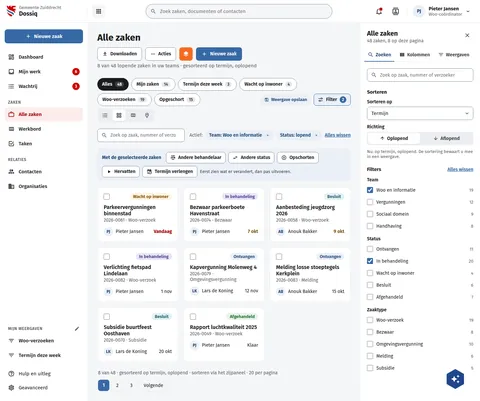
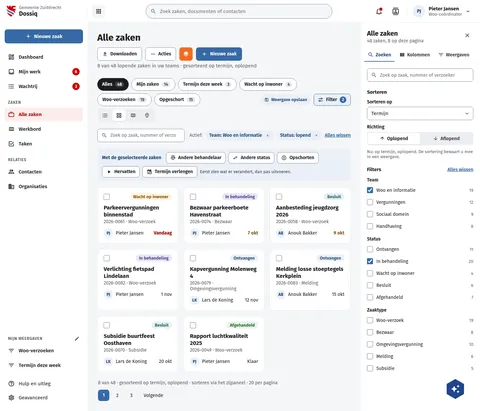
fix(screens): DqZakenSorteren card titles at the boards' 17px bold
The case cards on DqZakenSorteren set their titles at 16px/600, while the
card boards draw them at 17px/700 (43 card grids, DqAanMijToegewezen among
them; 16/600 on 2). The board follows the majority; the board grows 29px
(heights.json). screens.json is left as it was (a --only rebuild rewrites
it wholesale).

Assisted-by: ClaudeCode:claude-opus-5-5

diff --git a/preview/screens/boards/DqZakenSorteren.html b/preview/screens/boards/DqZakenSorteren.html
@@ -200,7 +200,7 @@ a{color:var(--sc-primary, #3669a5)}a:hover{color:var(--sc-primary-deep, #234a78)
                 <span style="display: inline-block; padding: 3px 10px; border-radius: 12px; font-size: 13px; font-weight: 600; background: #fff4de; color: #7a4f00">Wacht op inwoner</span>
               </div>
               <div style="display: flex; flex-direction: column; gap: 2px; min-width: 0">
-                <a href="DqZaak.html" style="font-size: 16px; font-weight: 600; color: var(--sc-work-ink, #1b1c1d); text-decoration: none">Parkeervergunningen binnenstad</a>
+                <a href="DqZaak.html" style="font-size: 17px; font-weight: 700; color: var(--sc-work-ink, #1b1c1d); text-decoration: none">Parkeervergunningen binnenstad</a>
                 <span style="font-size: 14px; color: var(--sc-work-muted, #5e6168)">2026-0061 · Woo-verzoek</span>
               </div>
               <div style="display: flex; justify-content: space-between; align-items: center; gap: 8px; font-size: 14px">
@@ -215,7 +215,7 @@ a{color:var(--sc-primary, #3669a5)}a:hover{color:var(--sc-primary-deep, #234a78)
                 <span style="display: inline-block; padding: 3px 10px; border-radius: 12px; font-size: 13px; font-weight: 600; background: #e8e6f6; color: #4a3f8f">In behandeling</span>
               </div>
               <div style="display: flex; flex-direction: column; gap: 2px; min-width: 0">
-                <a href="DqZaak.html" style="font-size: 16px; font-weight: 600; color: var(--sc-work-ink, #1b1c1d); text-decoration: none">Bezwaar parkeerboete Havenstraat</a>
+                <a href="DqZaak.html" style="font-size: 17px; font-weight: 700; color: var(--sc-work-ink, #1b1c1d); text-decoration: none">Bezwaar parkeerboete Havenstraat</a>
                 <span style="font-size: 14px; color: var(--sc-work-muted, #5e6168)">2026-0074 · Bezwaar</span>
               </div>
               <div style="display: flex; justify-content: space-between; align-items: center; gap: 8px; font-size: 14px">
@@ -230,7 +230,7 @@ a{color:var(--sc-primary, #3669a5)}a:hover{color:var(--sc-primary-deep, #234a78)
                 <span style="display: inline-block; padding: 3px 10px; border-radius: 12px; font-size: 13px; font-weight: 600; background: #e3f1f3; color: #1d5e66">Besluit</span>
               </div>
               <div style="display: flex; flex-direction: column; gap: 2px; min-width: 0">
-                <a href="DqZaak.html" style="font-size: 16px; font-weight: 600; color: var(--sc-work-ink, #1b1c1d); text-decoration: none">Aanbesteding jeugdzorg 2026</a>
+                <a href="DqZaak.html" style="font-size: 17px; font-weight: 700; color: var(--sc-work-ink, #1b1c1d); text-decoration: none">Aanbesteding jeugdzorg 2026</a>
                 <span style="font-size: 14px; color: var(--sc-work-muted, #5e6168)">2026-0058 · Woo-verzoek</span>
               </div>
               <div style="display: flex; justify-content: space-between; align-items: center; gap: 8px; font-size: 14px">
@@ -245,7 +245,7 @@ a{color:var(--sc-primary, #3669a5)}a:hover{color:var(--sc-primary-deep, #234a78)
                 <span style="display: inline-block; padding: 3px 10px; border-radius: 12px; font-size: 13px; font-weight: 600; background: #e8e6f6; color: #4a3f8f">In behandeling</span>
               </div>
               <div style="display: flex; flex-direction: column; gap: 2px; min-width: 0">
-                <a href="DqZaak.html" style="font-size: 16px; font-weight: 600; color: var(--sc-work-ink, #1b1c1d); text-decoration: none">Verlichting fietspad Lindelaan</a>
+                <a href="DqZaak.html" style="font-size: 17px; font-weight: 700; color: var(--sc-work-ink, #1b1c1d); text-decoration: none">Verlichting fietspad Lindelaan</a>
                 <span style="font-size: 14px; color: var(--sc-work-muted, #5e6168)">2026-0082 · Woo-verzoek</span>
               </div>
               <div style="display: flex; justify-content: space-between; align-items: center; gap: 8px; font-size: 14px">
@@ -260,7 +260,7 @@ a{color:var(--sc-primary, #3669a5)}a:hover{color:var(--sc-primary-deep, #234a78)
                 <span style="display: inline-block; padding: 3px 10px; border-radius: 12px; font-size: 13px; font-weight: 600; background: var(--sc-primary-light, #eaf0f7); color: var(--sc-primary-deep, #234a78)">Ontvangen</span>
               </div>
               <div style="display: flex; flex-direction: column; gap: 2px; min-width: 0">
-                <a href="DqZaak.html" style="font-size: 16px; font-weight: 600; color: var(--sc-work-ink, #1b1c1d); text-decoration: none">Kapvergunning Molenweg 4</a>
+                <a href="DqZaak.html" style="font-size: 17px; font-weight: 700; color: var(--sc-work-ink, #1b1c1d); text-decoration: none">Kapvergunning Molenweg 4</a>
                 <span style="font-size: 14px; color: var(--sc-work-muted, #5e6168)">2026-0079 · Omgevingsvergunning</span>
               </div>
               <div style="display: flex; justify-content: space-between; align-items: center; gap: 8px; font-size: 14px">
@@ -275,7 +275,7 @@ a{color:var(--sc-primary, #3669a5)}a:hover{color:var(--sc-primary-deep, #234a78)
                 <span style="display: inline-block; padding: 3px 10px; border-radius: 12px; font-size: 13px; font-weight: 600; background: var(--sc-primary-light, #eaf0f7); color: var(--sc-primary-deep, #234a78)">Ontvangen</span>
               </div>
               <div style="display: flex; flex-direction: column; gap: 2px; min-width: 0">
-                <a href="DqZaak.html" style="font-size: 16px; font-weight: 600; color: var(--sc-work-ink, #1b1c1d); text-decoration: none">Melding losse stoeptegels Kerkplein</a>
+                <a href="DqZaak.html" style="font-size: 17px; font-weight: 700; color: var(--sc-work-ink, #1b1c1d); text-decoration: none">Melding losse stoeptegels Kerkplein</a>
                 <span style="font-size: 14px; color: var(--sc-work-muted, #5e6168)">2026-0083 · Melding</span>
               </div>
               <div style="display: flex; justify-content: space-between; align-items: center; gap: 8px; font-size: 14px">
@@ -290,7 +290,7 @@ a{color:var(--sc-primary, #3669a5)}a:hover{color:var(--sc-primary-deep, #234a78)
                 <span style="display: inline-block; padding: 3px 10px; border-radius: 12px; font-size: 13px; font-weight: 600; background: #e3f1f3; color: #1d5e66">Besluit</span>
               </div>
               <div style="display: flex; flex-direction: column; gap: 2px; min-width: 0">
-                <a href="DqZaak.html" style="font-size: 16px; font-weight: 600; color: var(--sc-work-ink, #1b1c1d); text-decoration: none">Subsidie buurtfeest Oosthaven</a>
+                <a href="DqZaak.html" style="font-size: 17px; font-weight: 700; color: var(--sc-work-ink, #1b1c1d); text-decoration: none">Subsidie buurtfeest Oosthaven</a>
                 <span style="font-size: 14px; color: var(--sc-work-muted, #5e6168)">2026-0070 · Subsidie</span>
               </div>
               <div style="display: flex; justify-content: space-between; align-items: center; gap: 8px; font-size: 14px">
@@ -305,7 +305,7 @@ a{color:var(--sc-primary, #3669a5)}a:hover{color:var(--sc-primary-deep, #234a78)
                 <span style="display: inline-block; padding: 3px 10px; border-radius: 12px; font-size: 13px; font-weight: 600; background: #e7f3ea; color: #1e6b2a">Afgehandeld</span>
               </div>
               <div style="display: flex; flex-direction: column; gap: 2px; min-width: 0">
-                <a href="DqZaak.html" style="font-size: 16px; font-weight: 600; color: var(--sc-work-ink, #1b1c1d); text-decoration: none">Rapport luchtkwaliteit 2025</a>
+                <a href="DqZaak.html" style="font-size: 17px; font-weight: 700; color: var(--sc-work-ink, #1b1c1d); text-decoration: none">Rapport luchtkwaliteit 2025</a>
                 <span style="font-size: 14px; color: var(--sc-work-muted, #5e6168)">2026-0049 · Woo-verzoek</span>
               </div>
               <div style="display: flex; justify-content: space-between; align-items: center; gap: 8px; font-size: 14px">

diff --git a/screens-src/zuiddrecht/DqZakenSorteren.dc.html b/screens-src/zuiddrecht/DqZakenSorteren.dc.html
@@ -66,7 +66,7 @@ a{color:#3669a5}a:hover{color:#234a78}
                 <span style="{{ r.statusStyle }}">{{ r.status }}</span>
               </div>
               <div style="display: flex; flex-direction: column; gap: 2px; min-width: 0">
-                <a href="DqZaak.dc.html" style="font-size: 16px; font-weight: 600; color: #1b1c1d; text-decoration: none">{{ r.title }}</a>
+                <a href="DqZaak.dc.html" style="font-size: 17px; font-weight: 700; color: #1b1c1d; text-decoration: none">{{ r.title }}</a>
                 <span style="font-size: 14px; color: #5e6168">{{ r.number }} · {{ r.type }}</span>
               </div>
               <div style="display: flex; justify-content: space-between; align-items: center; gap: 8px; font-size: 14px">
